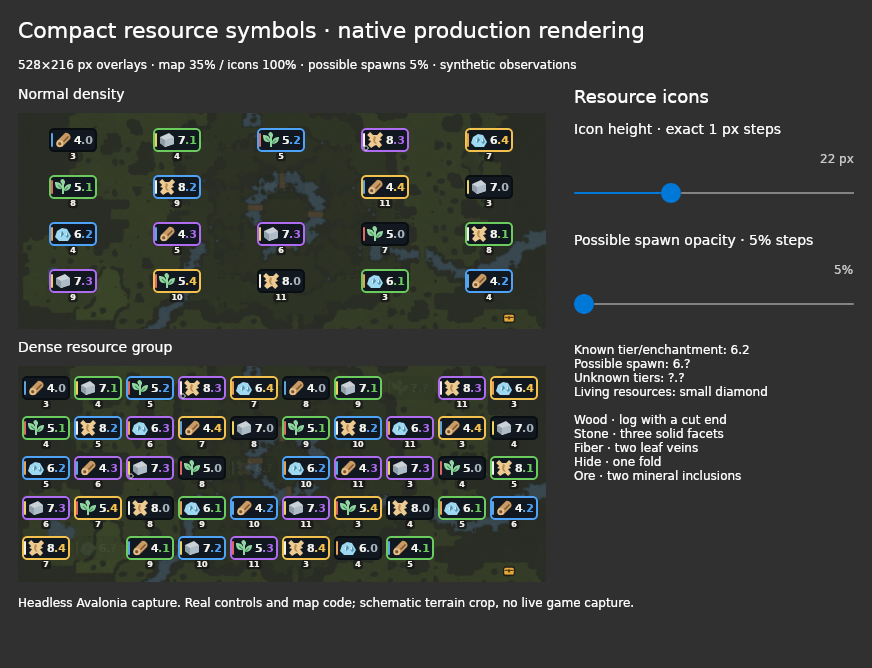
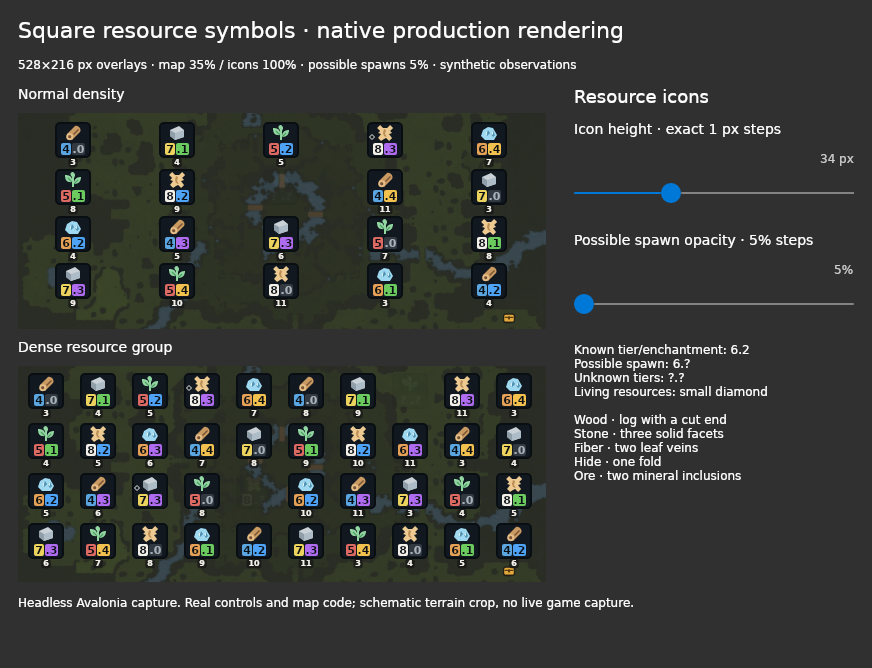
Stack resource symbols above tier and enchantment badges

diff --git a/AlbionDataAvalonia/Ui/ResourceMapGlyph.cs b/AlbionDataAvalonia/Ui/ResourceMapGlyph.cs
@@ -4,11 +4,11 @@ using System.Globalization;
 
 namespace AlbionDataAvalonia.Ui;
 
-/// <summary>A colored resource silhouette and explicit tier/enchantment on an opaque, compact plate.</summary>
+/// <summary>A square resource plate: silhouette above separate tier and enchantment badges.</summary>
 internal static class ResourceMapGlyph
 {
-    public const double Width = 46;
-    public const double Height = 22;
+    public const double Width = 34;
+    public const double Height = 34;
     public const double HalfWidth = Width / 2;
     public const double HalfHeight = Height / 2;
     public const double OuterHalfSize = HalfWidth + 2;
@@ -17,27 +17,32 @@ internal static class ResourceMapGlyph
         bool mob, bool possible)
     {
         var box = new Rect(at.X - HalfWidth, at.Y - HalfHeight, Width, Height);
-        var ink = UiPalette.Color("UiMapResourceInkColor");
-        context.DrawRectangle(UiPalette.Brush("UiMapResourcePlateColor"),
-            UiPalette.Pen(UiPalette.Color("UiMapResourceEdgeColor"), 2), box, 4, 4);
-        // A full colored rim reads at a glance; only observed enchantments may claim a color.
-        if (!possible && enchantment is >= 1 and <= 4)
-            context.DrawRectangle(null, UiPalette.Pen(ActivityPalette.Enchantment(enchantment.Value), 2), box, 4, 4);
-        context.DrawRectangle(UiPalette.Brush(ActivityPalette.ResourceTier(tier)), null,
-            new Rect(box.X + 1, box.Y + 4, 2, 14), 1, 1);
-        ResourceMapSymbol.Draw(context, new Rect(box.X + 5, box.Y + 3, 16, 16), family);
+        var digit = UiPalette.Color("UiMapResourceEdgeColor");
+        var muted = UiPalette.Color("UiMapResourceMutedColor");
+        var plate = UiPalette.Color("UiMapResourcePlateColor");
+        var neutral = UiPalette.Blend(plate, muted, 0.22);
+        context.DrawRectangle(UiPalette.Brush(plate), UiPalette.Pen(digit, 2), box, 4, 4);
+        ResourceMapSymbol.Draw(context, new Rect(at.X - 8, box.Y + 2, 16, 16), family);
 
-        // A candidate never claims an observed enchantment; a mixed-tier spot also leaves its tier unknown.
-        var tierText = ChartDrawing.Text(tier > 0 ? tier.ToString(CultureInfo.InvariantCulture) : "?", 11, ink, FontWeight.SemiBold);
-        tierText.Draw(context, new Point(box.X + 24, at.Y - tierText.Height / 2));
-        var enchantText = ChartDrawing.Text(possible || enchantment is null ? ".?" : $".{enchantment.Value}", 11,
-            possible || enchantment is null || enchantment == 0
-                ? UiPalette.Color("UiMapResourceMutedColor") : ActivityPalette.Enchantment(enchantment.Value), FontWeight.SemiBold);
-        enchantText.Draw(context, new Point(box.X + 31, at.Y - enchantText.Height / 2));
+        var tierBox = new Rect(at.X - 12, box.Y + 20, 10, 12);
+        var enchantBox = new Rect(at.X - 1, box.Y + 20, 13, 12);
+        var level = enchantment.GetValueOrDefault();
+        var knownEnchantment = !possible && enchantment is >= 0 and <= 4;
+        context.DrawRectangle(UiPalette.Brush(tier > 0 ? ActivityPalette.ResourceTier(tier) : neutral), null, tierBox, 2, 2);
+        context.DrawRectangle(UiPalette.Brush(knownEnchantment && level > 0
+            ? ActivityPalette.Enchantment(level) : neutral), null, enchantBox, 2, 2);
+
+        var tierText = ChartDrawing.Text(tier > 0 ? tier.ToString(CultureInfo.InvariantCulture) : "?", 11,
+            tier > 0 ? digit : muted, FontWeight.SemiBold);
+        tierText.Draw(context, new Point(tierBox.Center.X - tierText.Width / 2, tierBox.Center.Y - tierText.Height / 2));
+        // Static candidates never claim a current enchantment, even when their possible tier is known.
+        var enchantText = ChartDrawing.Text(knownEnchantment ? $".{level}" : ".?", 11,
+            knownEnchantment && level > 0 ? digit : muted, FontWeight.SemiBold);
+        enchantText.Draw(context, new Point(enchantBox.Center.X - enchantText.Width / 2, enchantBox.Center.Y - enchantText.Height / 2));
 
         if (!mob) return;
-        // An outlined diamond distinguishes living resource mobs without replacing their resource silhouette.
-        var centre = new Point(box.Left + 4, box.Bottom - 3);
+        // The mob diamond sits beside the silhouette, leaving both numeric badges unobstructed.
+        var centre = new Point(box.Left + 4, box.Top + 14);
         var diamond = new StreamGeometry();
         using (var path = diamond.Open())
         {
@@ -47,6 +52,6 @@ internal static class ResourceMapGlyph
             path.LineTo(new Point(centre.X - 2.5, centre.Y));
             path.EndFigure(true);
         }
-        context.DrawGeometry(UiPalette.Brush("UiMapResourcePlateColor"), UiPalette.Pen(ink, 1), diamond);
+        context.DrawGeometry(UiPalette.Brush(plate), UiPalette.Pen(UiPalette.Color("UiMapResourceInkColor"), 1), diamond);
     }
 }

diff --git a/AlbionDataAvalonia/ViewModels/ActivityMapViewModel.cs b/AlbionDataAvalonia/ViewModels/ActivityMapViewModel.cs
@@ -130,7 +130,7 @@ public sealed partial class ActivityMapViewModel : ObservableObject, IDisposable
         [new(new(0), ".0+"), new(new(0, true), ".0 only"), new(new(1), ".1+"), new(new(1, true), ".1 only"),
          new(new(2), ".2+"), new(new(2, true), ".2 only"), new(new(3), ".3+"), new(new(3, true), ".3 only"), new(new(4), ".4+"), new(new(4, true), ".4 only")];
     public IReadOnlyList<Option<int>> IconSizeOptions { get; } =
-        Enumerable.Range(11, 34).Select(height => new Option<int>(height, $"{height} px")).ToArray();
+        Enumerable.Range(17, 52).Select(height => new Option<int>(height, $"{height} px")).ToArray();
     public IReadOnlyList<Option<int>> IconOpacityOptions { get; } =
         [new(25, "25%"), new(50, "50%"), new(75, "75%"), new(100, "100%")];
     public IReadOnlyList<Option<int>> SpawnIconOpacityOptions { get; } =

diff --git a/AlbionDataAvalonia/Views/Controls/ResourceMapSamples.cs b/AlbionDataAvalonia/Views/Controls/ResourceMapSamples.cs
@@ -14,8 +14,8 @@ public sealed class ResourceMapSamples : Control
         for (var index = 0; index < families.Length; index++)
         {
             var x = 40 + index * 100;
-            ResourceMapGlyph.Draw(context, new Point(x, 16), families[index], 6, 2, false, false);
-            ChartDrawing.DrawText(context, families[index], new Point(x, 34), 11, UiPalette.Text, TextAlign.Center);
+            ResourceMapGlyph.Draw(context, new Point(x, 19), families[index], 6, 2, false, false);
+            ChartDrawing.DrawText(context, families[index], new Point(x, 40), 11, UiPalette.Text, TextAlign.Center);
         }
         for (var tier = 1; tier <= 8; tier++)
             ResourceMapGlyph.Draw(context, new Point(40 + (tier - 1) * 64, 81), families[(tier - 1) % families.Length], tier, tier < 4 ? 0 : (tier - 1) % 5, false, false);
